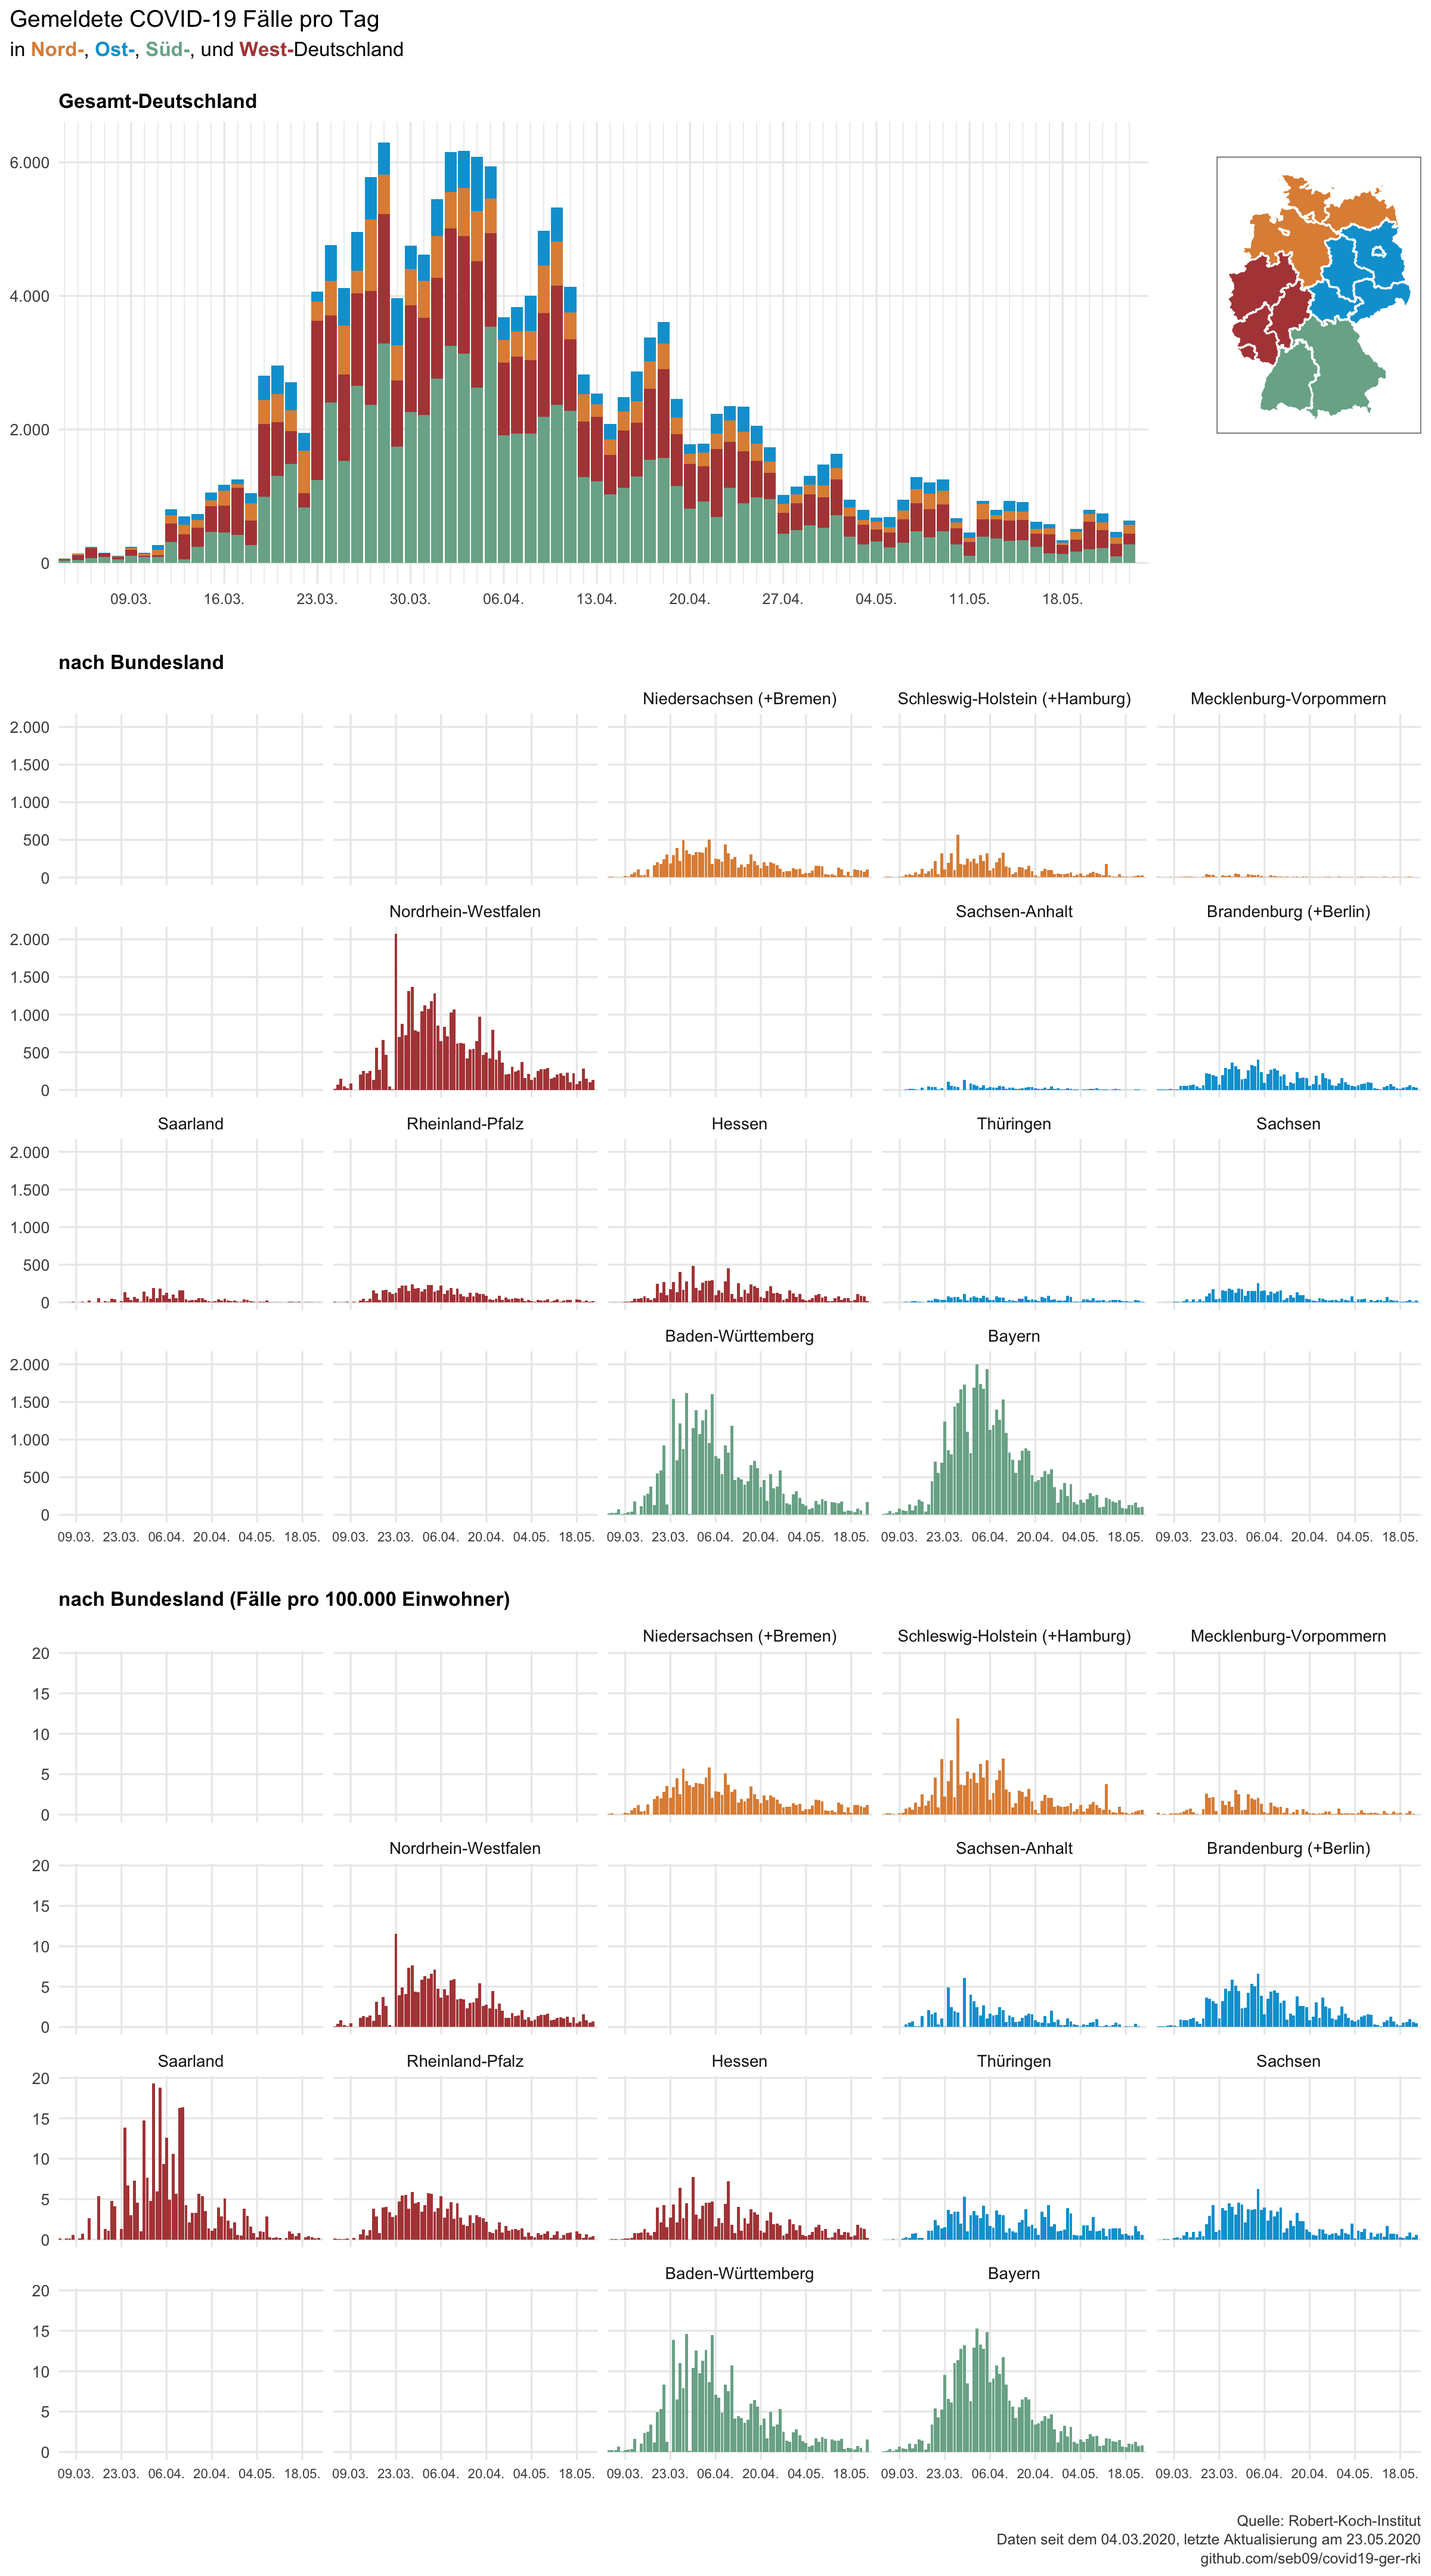
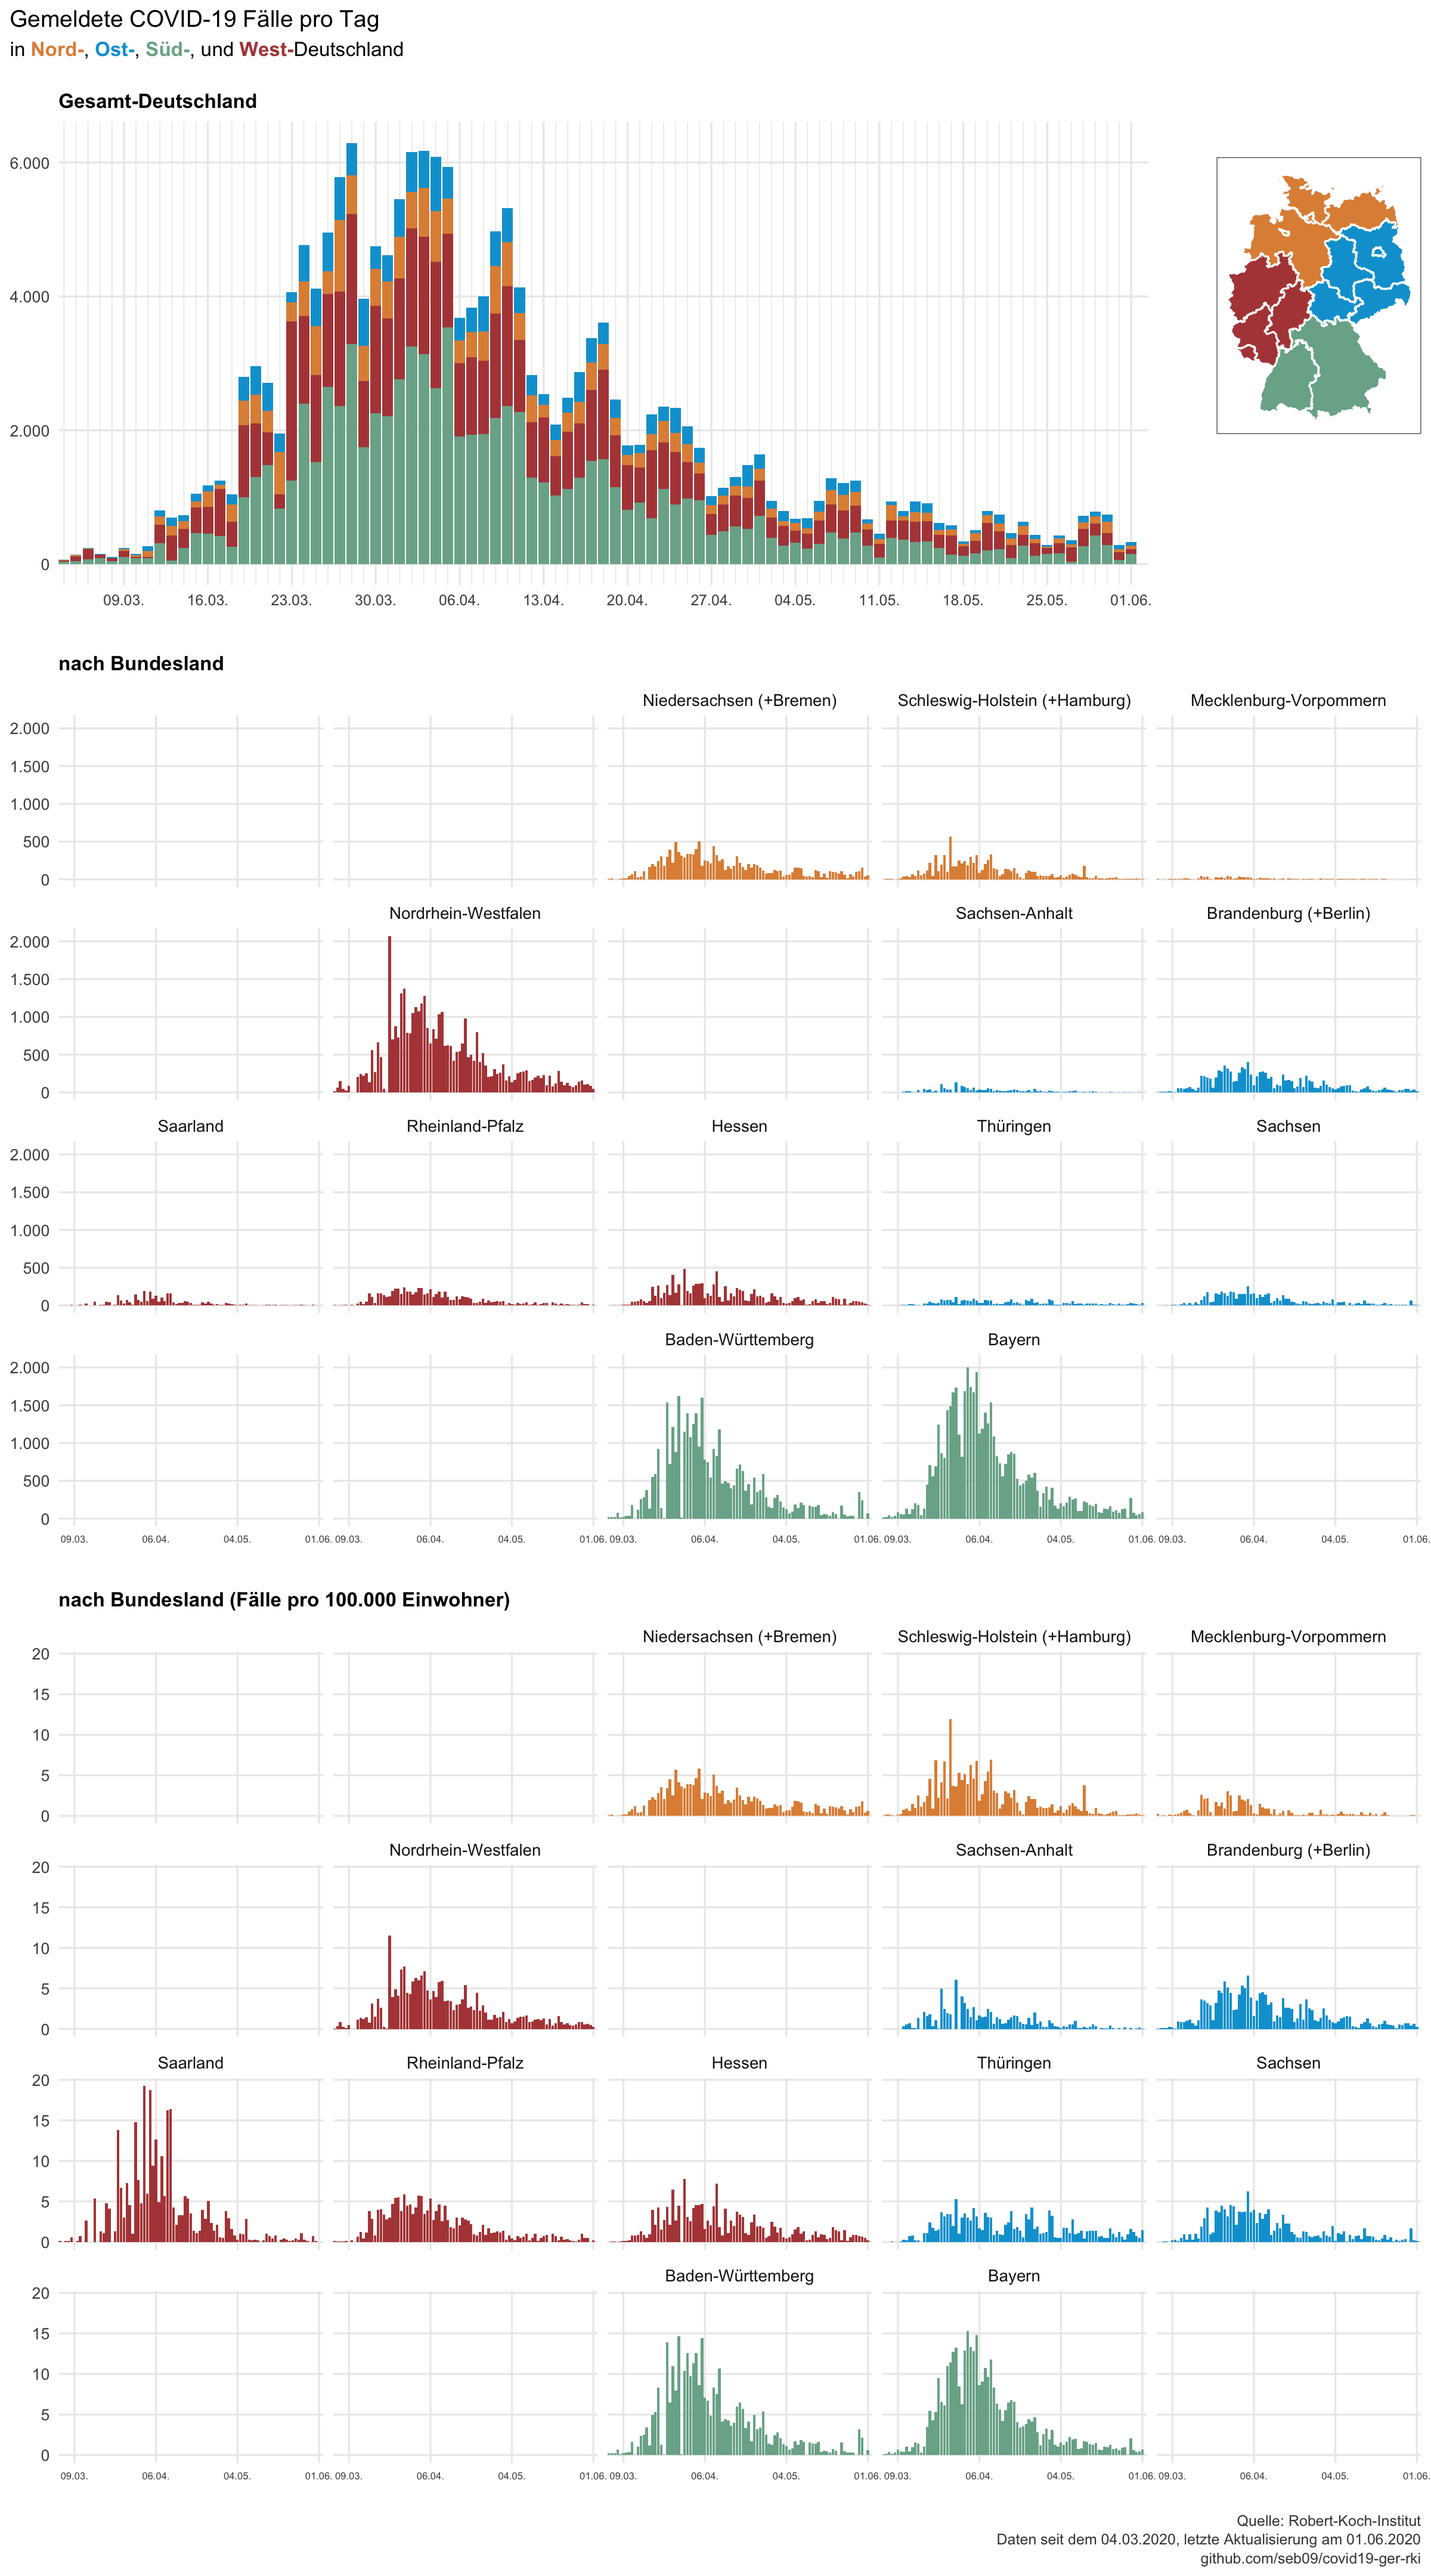
daily update 2020-06-01

diff --git a/README.md b/README.md
@@ -1,6 +1,6 @@
 Data from the Robert-Koch-Institut on COVID-19 in Germany
 ================
-Last update: 2020-05-23
+Last update: 2020-06-01
 
 This repository contains data on reported COVID-19 cases in Germany and
 its federal states that is published daily by the Robert-Koch-Institut
@@ -14,26 +14,26 @@ corona_rki %>%
   print(n = 16)
 ```
 
-    ## # A tibble: 1,290 x 6
+    ## # A tibble: 1,434 x 6
     ##    Datum      Bundesland      Fallzahl Todeszahl Fallzahl_neu Todeszahl_neu
     ##    <date>     <chr>              <dbl>     <dbl>        <dbl>         <dbl>
-    ##  1 2020-05-23 Baden-Württemb…    34345      1692          171            12
-    ##  2 2020-05-23 Bayern             46132      2367          108             9
-    ##  3 2020-05-23 Berlin              6614       190           29             0
-    ##  4 2020-05-23 Brandenburg         3213       154            2             2
-    ##  5 2020-05-23 Bremen              1296        41            5             2
-    ##  6 2020-05-23 Hamburg             5063       240            4             0
-    ##  7 2020-05-23 Hessen              9670       458           14             1
-    ##  8 2020-05-23 Mecklenburg-Vo…      763        20            0             0
-    ##  9 2020-05-23 Niedersachsen      11521       571          101             3
-    ## 10 2020-05-23 Nordrhein-West…    37139      1555          129             8
-    ## 11 2020-05-23 Rheinland-Pfalz     6582       226           16             2
-    ## 12 2020-05-23 Saarland            2709       157            2             0
-    ## 13 2020-05-23 Sachsen             5219       204           22             1
-    ## 14 2020-05-23 Sachsen-Anhalt      1692        54            0             0
-    ## 15 2020-05-23 Schleswig-Hols…     3062       136           23             2
-    ## 16 2020-05-23 Thüringen           2830       151           12             0
-    ## # … with 1,274 more rows
+    ##  1 2020-06-01 Baden-Württemb…    34784      1752           66          1752
+    ##  2 2020-06-01 Bayern             47004      2451           87          2451
+    ##  3 2020-06-01 Berlin              6816       198           16           198
+    ##  4 2020-06-01 Brandenburg         3273       155            2           155
+    ##  5 2020-06-01 Bremen              1398        42            0            42
+    ##  6 2020-06-01 Hamburg             5089       253            2           253
+    ##  7 2020-06-01 Hessen             10047       480           14           480
+    ##  8 2020-06-01 Mecklenburg-Vo…      761        20            0            20
+    ##  9 2020-06-01 Niedersachsen      12043       593           51           593
+    ## 10 2020-06-01 Nordrhein-West…    38046      1598           46          1598
+    ## 11 2020-06-01 Rheinland-Pfalz     6703       230            9           230
+    ## 12 2020-06-01 Saarland            2724       163            0           163
+    ## 13 2020-06-01 Sachsen             5309       214            5           214
+    ## 14 2020-06-01 Sachsen-Anhalt      1706        55            1            55
+    ## 15 2020-06-01 Schleswig-Hols…     3097       145            3           145
+    ## 16 2020-06-01 Thüringen           3015       162           31           162
+    ## # … with 1,418 more rows
 
 Data is downloaded each day at 11am from the [website of the
 RKI](https://www.rki.de/DE/Content/InfAZ/N/Neuartiges_Coronavirus/Fallzahlen.html)
